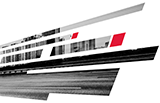
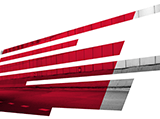
Do VAN - 160x600

diff --git a/2016-05-11/source/VAN/160x600.css b/2016-05-11/source/VAN/160x600.css
@@ -616,9 +616,9 @@
 
 .background {
   width: 160px;
-  height: 103px;
+  height: 119px;
   background: url('./images/160x600_background.png') no-repeat center center;
-  top: 51px;
+  top: 48px;
   left: 0px;
 }
 .car-container{
@@ -698,7 +698,7 @@
   -o-animation: fadeOut 10ms ease-in-out 4s forwards;
   animation: fadeOut 10ms ease-in-out 4s forwards; 
 }
-.front-wheel-container, .front-wheel-2-container {
+.front-wheel-container, .front-wheel-2-container, .front-wheel-3-container {
   width: 19px;
   height: 29px;
   top: 30px;
@@ -709,7 +709,7 @@
   -ms-transform: scaleX(0.6551);
   transform: scaleX(0.6551);
 }
-.front-wheel, .front-wheel-2 {
+.front-wheel, .front-wheel-2, .front-wheel-3 {
   width: 29px;
   height: 29px;
   background: url('./images/160x600_wheel_front.png') no-repeat center center;
@@ -717,7 +717,7 @@
   top: 0px;
   left: 0px;
 }
-.back-wheel-container, .back-wheel-2-container {
+.back-wheel-container, .back-wheel-2-container, .back-wheel-3-container {
   width: 11px;
   height: 23px;
   top: 26px;
@@ -728,7 +728,7 @@
   -ms-transform: scaleX(0.4783);
   transform: scaleX(0.4783);
 }
-.back-wheel, .back-wheel-2 {
+.back-wheel, .back-wheel-2, .back-wheel-3 {
   width: 23px;
   height: 23px;
   background: url('./images/160x600_wheel_back.png') no-repeat center center;
@@ -744,6 +744,13 @@
   animation: wheelRotationAnimation 1.5s ease-in-out 2.5s forwards;
 }
 
+.car-2-outside {
+  -webkit-animation: fadeOut 0.5s ease-in-out 10s forwards;
+  -moz-animation: fadeOut 0.5s ease-in-out 10s forwards;
+  -ms-animation: fadeOut 0.5s ease-in-out 10s forwards;
+  -o-animation: fadeOut 0.5s ease-in-out 10s forwards;
+  animation: fadeOut 0.5s ease-in-out 10s forwards;
+}
 .car-2-container {
   -webkit-transform: translate(160px,50px);
   -moz-transform: translate(160px,50px);
@@ -799,6 +806,65 @@
   animation: wheelRotationAnimation 1.5s ease-in-out 6.5s forwards;
 }
 
+
+
+.car-3-container {
+  -webkit-transform: translate(160px,50px);
+  -moz-transform: translate(160px,50px);
+  -ms-transform: translate(160px,50px);
+  -o-transform: translate(160px,50px);
+  transform: translate(160px,50px);
+
+  -webkit-animation: rollBack 10ms ease-in-out 0s forwards;
+  -moz-animation: rollBack 10ms ease-in-out 0s forwards;
+  -ms-animation: rollBack 10ms ease-in-out 0s forwards;
+  -o-animation: rollBack 10ms ease-in-out 0s forwards;
+  animation: rollBack 10ms ease-in-out 0s forwards;
+}
+.car-3 {
+  width: 149px;
+  height: 63px;
+  background: url('./images/160x600_car_3.png') no-repeat center center;
+  top: 109px;
+  left: 1px;
+
+  -webkit-transform: translate(-160px,-50px);
+  -moz-transform: translate(-160px,-50px);
+  -ms-transform: translate(-160px,-50px);
+  -o-transform: translate(-160px,-50px);
+  transform: translate(-160px,-50px);
+
+  -webkit-animation: carRunAnimation 1.5s ease-in-out 10.5s forwards;
+  -moz-animation: carRunAnimation 1.5s ease-in-out 10.5s forwards;
+  -ms-animation: carRunAnimation 1.5s ease-in-out 10.5s forwards;
+  -o-animation: carRunAnimation 1.5s ease-in-out 10.5s forwards;
+  animation: carRunAnimation 1.5s ease-in-out 10.5s forwards;
+}
+.wheel-container-3 {
+  -webkit-animation: fadeOut 10ms ease-in-out 12s forwards;
+  -moz-animation: fadeOut 10ms ease-in-out 12s forwards;
+  -ms-animation: fadeOut 10ms ease-in-out 12s forwards;
+  -o-animation: fadeOut 10ms ease-in-out 12s forwards;
+  animation: fadeOut 10ms ease-in-out 12s forwards;
+}
+.front-wheel-3-container {
+  top: 29px;
+  left: 54px;
+}
+.back-wheel-3-container {
+  top: 26px;
+  left: 5px;
+}
+.back-wheel-3, .front-wheel-3 {
+  -webkit-animation: wheelRotationAnimation 1.5s ease-in-out 10.5s forwards;
+  -moz-animation: wheelRotationAnimation 1.5s ease-in-out 10.5s forwards;
+  -ms-animation: wheelRotationAnimation 1.5s ease-in-out 10.5s forwards;
+  -o-animation: wheelRotationAnimation 1.5s ease-in-out 10.5s forwards;
+  animation: wheelRotationAnimation 1.5s ease-in-out 10.5s forwards;
+}
+
+
+
 .text-container {
   -webkit-transform: translate(160px,0);
   -moz-transform: translate(160px,0);
@@ -825,11 +891,11 @@
   -o-transform: translate(-160px,0);
   transform: translate(-160px,0);
 
-  -webkit-animation: fadeIn 1s ease-in-out 8s forwards;
-  -moz-animation: fadeIn 1s ease-in-out 8s forwards;
-  -ms-animation: fadeIn 1s ease-in-out 8s forwards;
-  -o-animation: fadeIn 1s ease-in-out 8s forwards;
-  animation: fadeIn 1s ease-in-out 8s forwards;
+  -webkit-animation: fadeIn 1s ease-in-out 12s forwards;
+  -moz-animation: fadeIn 1s ease-in-out 12s forwards;
+  -ms-animation: fadeIn 1s ease-in-out 12s forwards;
+  -o-animation: fadeIn 1s ease-in-out 12s forwards;
+  animation: fadeIn 1s ease-in-out 12s forwards;
 }
 .logo-container {
   -webkit-transform: translate(160px,0);
@@ -857,11 +923,11 @@
   -o-transform: translate(-160px,0);
   transform: translate(-160px,0);
 
-  -webkit-animation: fadeIn 1s ease-in-out 9s forwards;
-  -moz-animation: fadeIn 1s ease-in-out 9s forwards;
-  -ms-animation: fadeIn 1s ease-in-out 9s forwards;
-  -o-animation: fadeIn 1s ease-in-out 9s forwards;
-  animation: fadeIn 1s ease-in-out 9s forwards;
+  -webkit-animation: fadeIn 1s ease-in-out 13s forwards;
+  -moz-animation: fadeIn 1s ease-in-out 13s forwards;
+  -ms-animation: fadeIn 1s ease-in-out 13s forwards;
+  -o-animation: fadeIn 1s ease-in-out 13s forwards;
+  animation: fadeIn 1s ease-in-out 13s forwards;
 }
 .cta-container {
   -webkit-transform: translate(160px,0);
@@ -889,11 +955,11 @@
   -o-transform: translate(-160px,0);
   transform: translate(-160px,0);
 
-  -webkit-animation: slideRight 0.5s ease-in-out 10s forwards;
-  -moz-animation: slideRight 0.5s ease-in-out 10s forwards;
-  -ms-animation: slideRight 0.5s ease-in-out 10s forwards;
-  -o-animation: slideRight 0.5s ease-in-out 10s forwards;
-  animation: slideRight 0.5s ease-in-out 10s forwards;
+  -webkit-animation: slideRight 0.5s ease-in-out 14s forwards;
+  -moz-animation: slideRight 0.5s ease-in-out 14s forwards;
+  -ms-animation: slideRight 0.5s ease-in-out 14s forwards;
+  -o-animation: slideRight 0.5s ease-in-out 14s forwards;
+  animation: slideRight 0.5s ease-in-out 14s forwards;
 }
 
 .border {

diff --git a/2016-05-11/source/VAN/160x600.html b/2016-05-11/source/VAN/160x600.html
@@ -33,15 +33,35 @@
 							</div>
 						</div>
 					</div>
-					<div class="car-2-container container">
-						<div class="car-2 absolute">
-							<div class="wheel-container container">
-								<div class="wheel-container-2 container">
-									<div class="front-wheel-2-container absolute">
-										<div class="front-wheel-2 absolute">&nbsp;</div>
+					
+					<div class="car-2-outside container">
+						<div class="car-2-wrapper container">
+							<div class="car-2-container container">
+								<div class="car-2 absolute">
+									<div class="wheel-container container">
+										<div class="wheel-container-2 container">
+											<div class="front-wheel-2-container absolute">
+												<div class="front-wheel-2 absolute">&nbsp;</div>
+											</div>
+											<div class="back-wheel-2-container absolute">
+												<div class="back-wheel-2 absolute">&nbsp;</div>
+											</div>
+										</div>
 									</div>
-									<div class="back-wheel-2-container absolute">
-										<div class="back-wheel-2 absolute">&nbsp;</div>
+								</div>
+							</div>
+						</div>
+					</div>
+					
+					<div class="car-3-container container">
+						<div class="car-3 absolute">
+							<div class="wheel-container container">
+								<div class="wheel-container-3 container">
+									<div class="front-wheel-3-container absolute">
+										<div class="front-wheel-3 absolute">&nbsp;</div>
+									</div>
+									<div class="back-wheel-3-container absolute">
+										<div class="back-wheel-3 absolute">&nbsp;</div>
 									</div>
 								</div>
 							</div>
